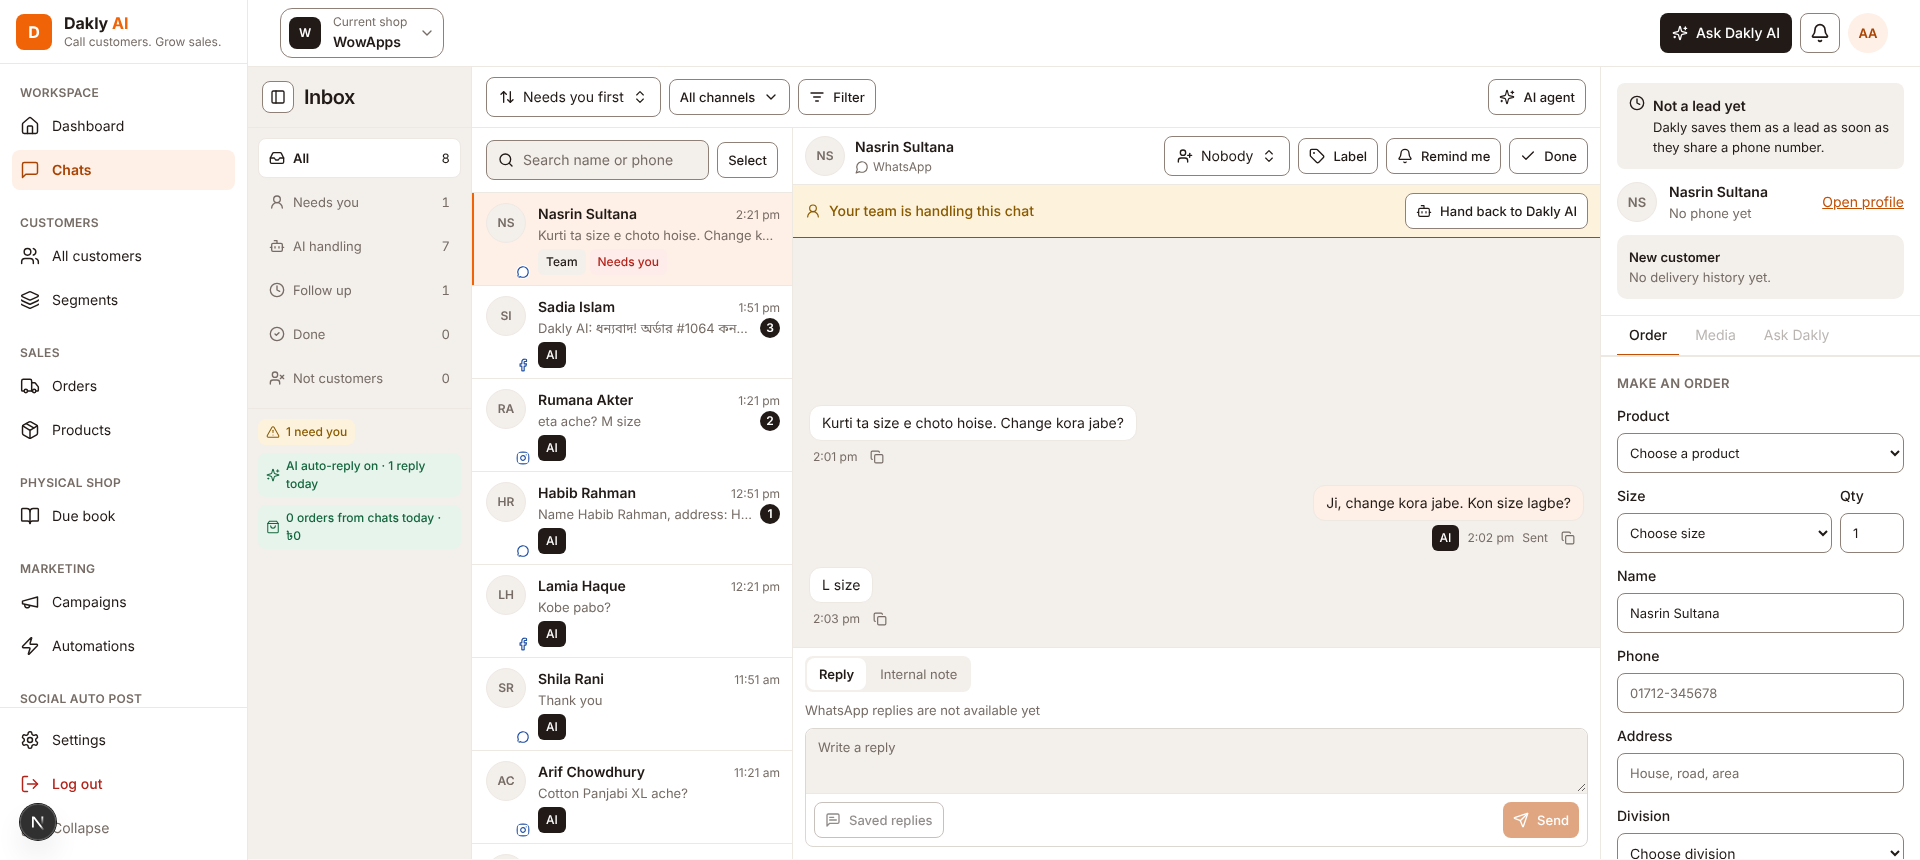
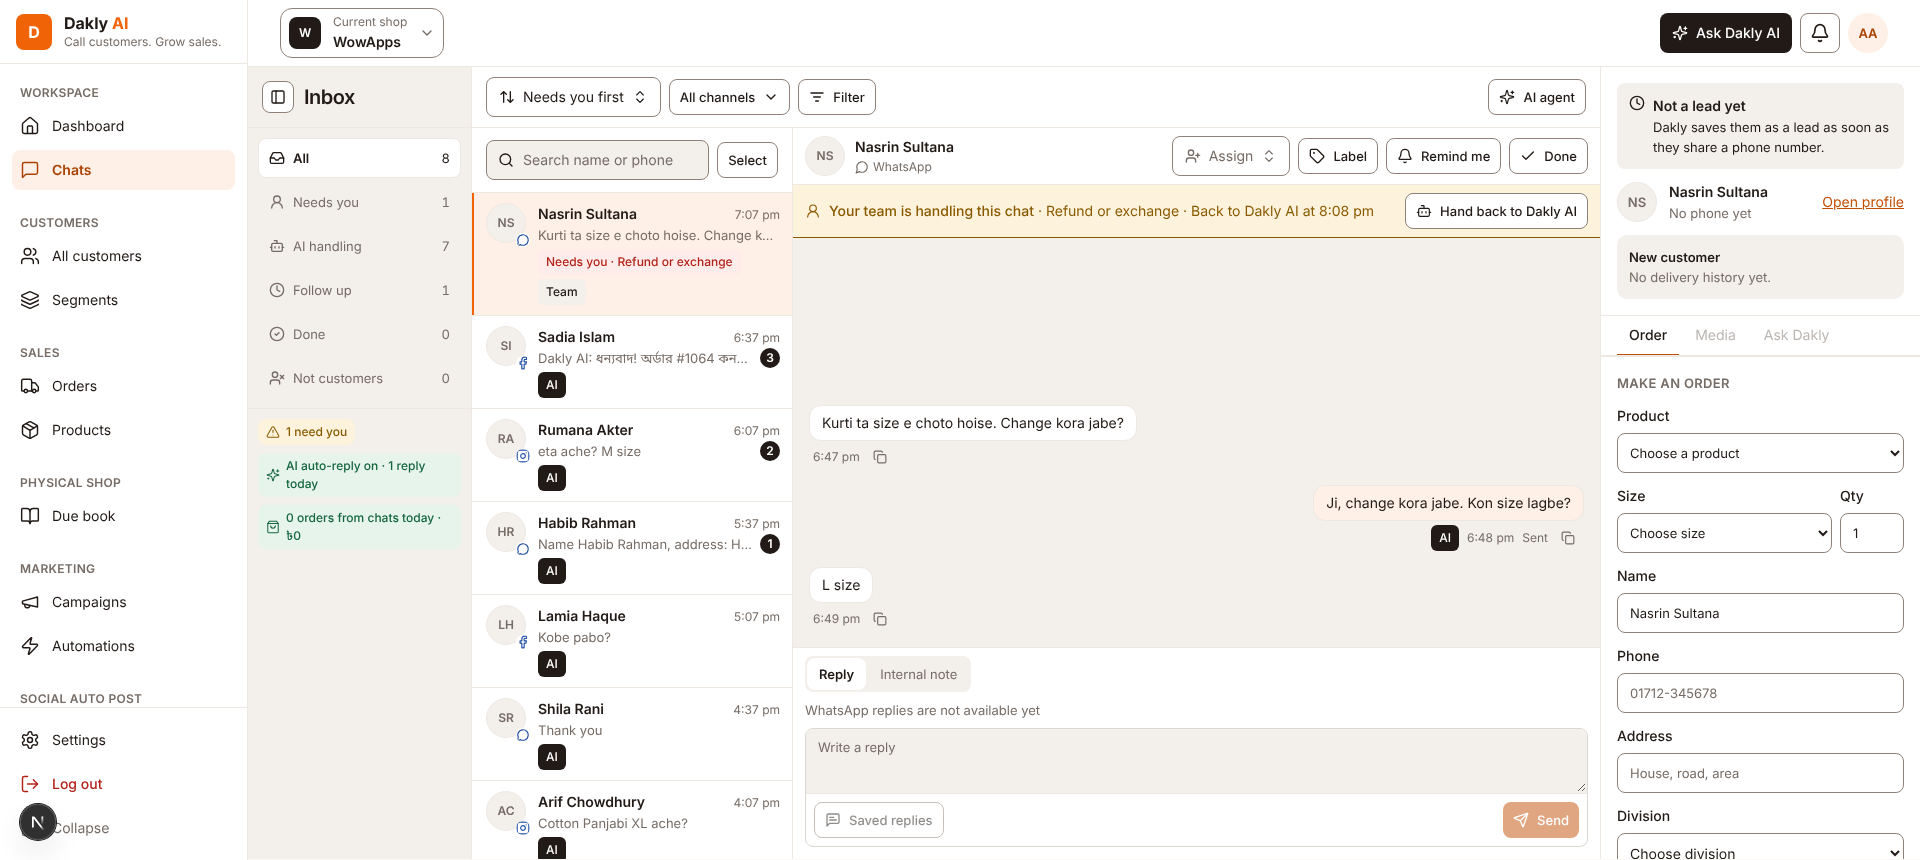
fix(chat-5): show why a chat needs the team and match the Inbox header to the design (#611)
Chat rows overlay the channel mark on the avatar and say why a chat needs the team, the team banner names the hand-over reason and when Dakly AI takes the chat back, and an unassigned chat shows Assign.

diff --git a/apps/web/src/features/chats/components/responder-banner.tsx b/apps/web/src/features/chats/components/responder-banner.tsx
@@ -10,6 +10,8 @@ import { useToast } from '@dakly/ui/toast';
 import { useAgentSettings } from '../api/agent-settings';
 import { useReturnToAi, useTakeOverConversation } from '../api/conversation-actions';
 import { chatsHref, type ChatScreenQuery } from '../chat-filters';
+import { handoverReasonLabels } from '../handover-reasons';
+import { formatDate, formatShortDateTime, formatTime } from '@/lib/format-date';
 import { useSessionContext } from '@/lib/session-context';
 
 // Only the AI and a person who took over are shown; a paused chat has no one to hand to.
@@ -68,7 +70,10 @@ function HandlingBanner({
     <div className={cn('shrink-0 border-b', look.border)}>
       <div className={cn('flex items-center gap-2 px-3 py-2', look.bar)}>
         <Icon aria-hidden="true" size={16} strokeWidth={1.75} />
-        <p className="min-w-0 flex-1 font-medium">{look.title}</p>
+        <p className="min-w-0 flex-1">
+          <span className="font-medium">{look.title}</span>
+          {ai ? null : <HandoverDetails conversation={conversation} />}
+        </p>
         {canEdit ? (
           <Button
             variant="secondary"
@@ -90,6 +95,21 @@ function HandlingBanner({
       {ai ? null : <HandoverSummary summary={conversation.handoverSummary} />}
     </div>
   );
+}
+
+function HandoverDetails({ conversation }: { conversation: ConversationResponse }) {
+  const { handoverReason, aiResumesAt } = conversation;
+  return (
+    <>
+      {handoverReason ? <span> · {handoverReasonLabels[handoverReason]}</span> : null}
+      {aiResumesAt ? <span> · Back to Dakly AI at {resumeTime(aiResumesAt)}</span> : null}
+    </>
+  );
+}
+
+function resumeTime(value: string) {
+  const today = formatDate(value, new Date().toISOString()) === 'Today';
+  return today ? formatTime(value) : formatShortDateTime(value);
 }
 
 function HandoverSummary({ summary }: { summary: string | null }) {

diff --git a/apps/web/src/features/chats/components/chat-row.tsx b/apps/web/src/features/chats/components/chat-row.tsx
@@ -8,6 +8,7 @@ import { cn } from '@dakly/ui/cn';
 
 import { chatsHref, type ChatScreenQuery } from '../chat-filters';
 import { contactDisplayName } from '../contact-name';
+import { handoverReasonLabels } from '../handover-reasons';
 import { formatDate, formatTime } from '@/lib/format-date';
 import { initialsOf } from '@/lib/initials';
 import { useSessionContext } from '@/lib/session-context';
@@ -96,7 +97,7 @@ function ChatRowContent({
 function Avatar({ name, channel }: { name: string; channel: ConversationResponse['channel'] }) {
   const { icon: Icon, label } = channelIcons[channel];
   return (
-    <div className="relative shrink-0">
+    <div className="relative shrink-0 self-start">
       <span className="flex size-10 items-center justify-center rounded-full border border-border bg-surface-muted text-xs font-semibold text-text-muted">
         {initialsOf(name)}
       </span>
@@ -124,10 +125,16 @@ function ChatRowBadges({ conversation }: { conversation: ConversationResponse })
   const { data: session } = useSessionContext();
   return (
     <div className="mt-1 flex flex-wrap gap-1">
+      {conversation.status === 'needs_you' ? (
+        <Badge variant="danger">
+          {conversation.handoverReason
+            ? `Needs you · ${handoverReasonLabels[conversation.handoverReason]}`
+            : 'Needs you'}
+        </Badge>
+      ) : null}
       <Badge variant={conversation.responder === 'ai' ? 'inverse' : 'neutral'}>
         {responderLabel(conversation, session?.user.id)}
       </Badge>
-      {conversation.status === 'needs_you' ? <Badge variant="danger">Needs you</Badge> : null}
     </div>
   );
 }

diff --git a/apps/web/src/features/chats/components/chats.spec.tsx b/apps/web/src/features/chats/components/chats.spec.tsx
@@ -273,6 +273,14 @@ describe('Chat list', () => {
     expect(screen.getByRole('combobox', { name: 'Chat folder' })).toBeTruthy();
   });
 
+  it('says why a chat needs the team on its row', async () => {
+    respond(() =>
+      ok([{ ...sadia, status: 'needs_you', responder: 'human', handoverReason: 'refund' }]),
+    );
+    show();
+    expect(await screen.findByText('Needs you · Refund or exchange')).toBeTruthy();
+  });
+
   it('shows each chat with its name, last message and unread count, and the tab counts', async () => {
     respond(() => ok([sadia]));
     show();
@@ -593,6 +601,7 @@ describe('Conversation actions', () => {
     respondToActions({ responder: 'human', handoverReason: 'complaint', handoverSummary: summary });
     show(chatScreenQuerySchema.parse({ chat: chatId }));
     expect(await screen.findByText('Your team is handling this chat')).toBeTruthy();
+    expect(screen.getByText('· Complaint')).toBeTruthy();
     expect(screen.getByText(summary)).toBeTruthy();
     cleanup();
     respondToActions({ responder: 'ai', handoverSummary: null });

diff --git a/apps/web/src/features/chats/handover-reasons.ts b/apps/web/src/features/chats/handover-reasons.ts
@@ -1,0 +1,17 @@
+import type { handoverReasons } from '@dakly/contracts/chats';
+
+// Short words for why Dakly AI handed a chat to the team, shown on the row and the banner.
+export const handoverReasonLabels: Record<(typeof handoverReasons)[number], string> = {
+  asked_for_person: 'Asked for a person',
+  complaint: 'Complaint',
+  refund: 'Refund or exchange',
+  discount: 'Discount request',
+  angry: 'Upset customer',
+  out_of_scope: 'Not in Knowledge',
+  ready_to_buy: 'Ready to buy',
+  ai_unavailable: 'AI could not answer',
+  allowance_used: 'AI replies used up',
+  ai_paused: 'AI paused by Dakly',
+  store_read_only: 'Plan unpaid',
+  other: 'Hand-over rule',
+};

diff --git a/apps/web/src/features/chats/components/conversation-actions.tsx b/apps/web/src/features/chats/components/conversation-actions.tsx
@@ -68,12 +68,12 @@ function AssigneePicker({ conversation }: { conversation: ConversationResponse }
   const me = session?.user.id;
   return (
     <Select
-      value={conversation.assigneeUserId ?? nobody}
+      value={conversation.assigneeUserId ?? ''}
       onValueChange={(value) => update.mutate({ assigneeUserId: value === nobody ? null : value })}
     >
       <SelectTrigger aria-label="Assigned to" className="w-auto max-w-28 sm:max-w-40">
         <UserPlus aria-hidden="true" size={16} />
-        <SelectValue />
+        <SelectValue placeholder="Assign" />
       </SelectTrigger>
       <SelectContent>
         <SelectItem value={nobody}>Nobody</SelectItem>
